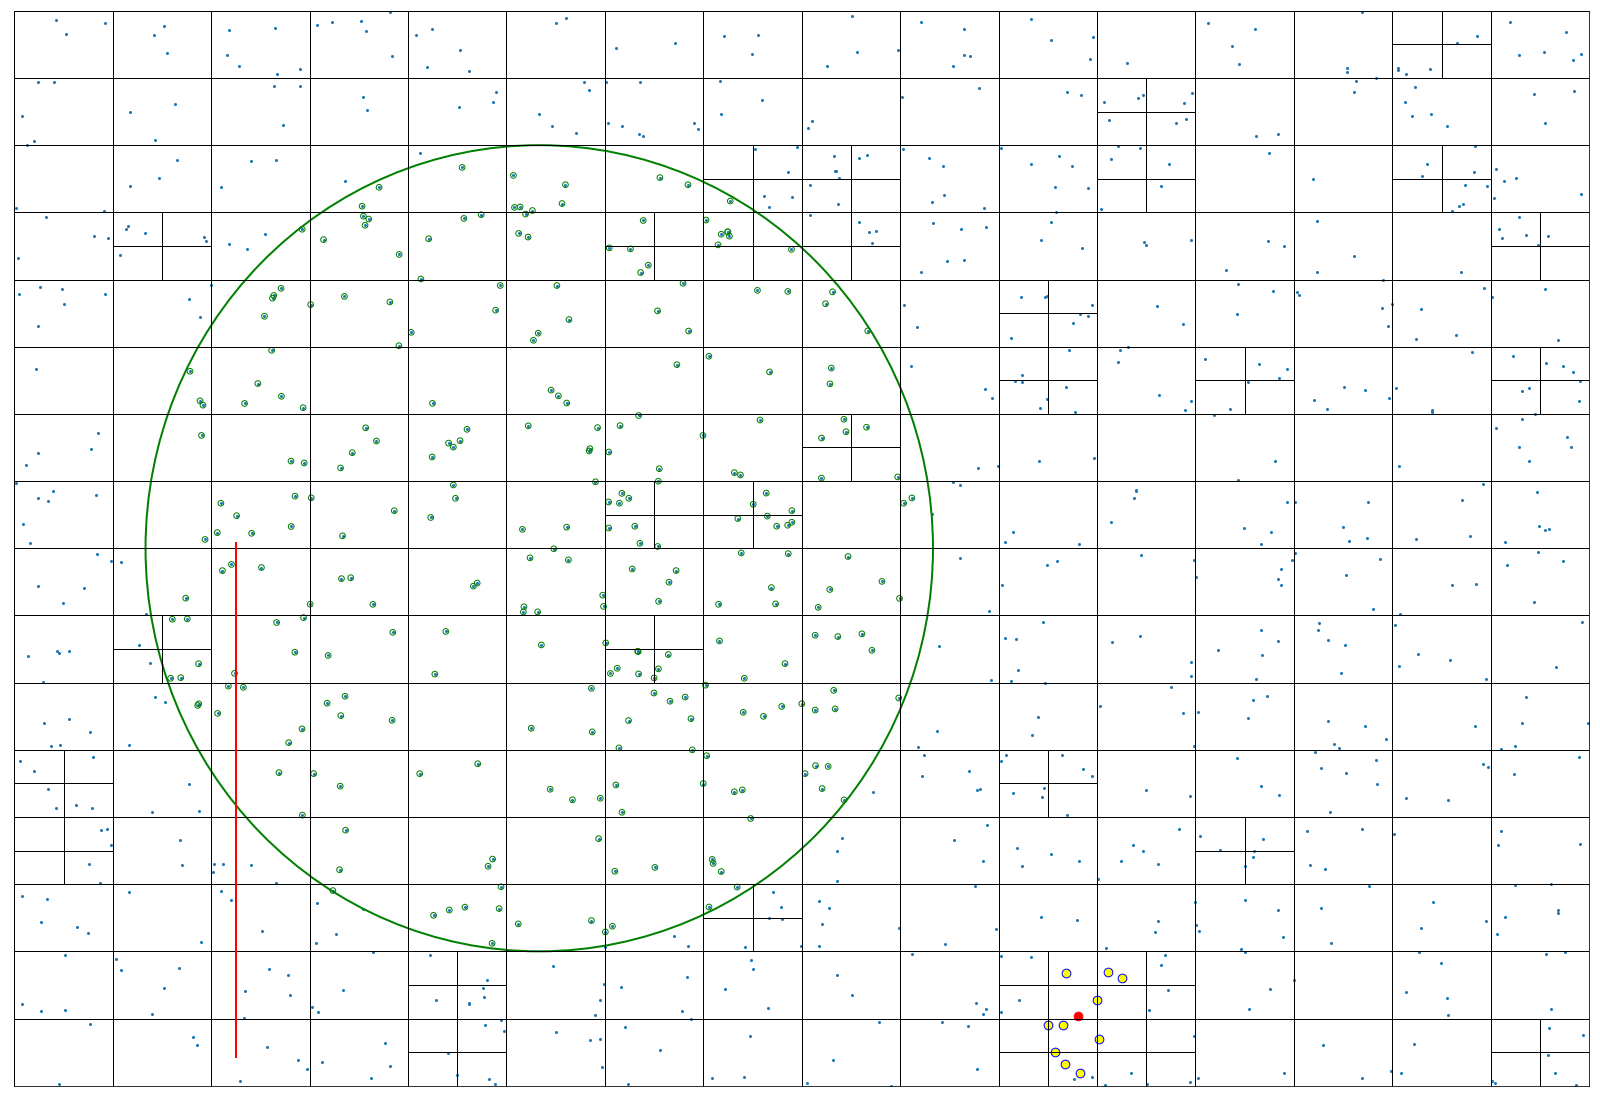
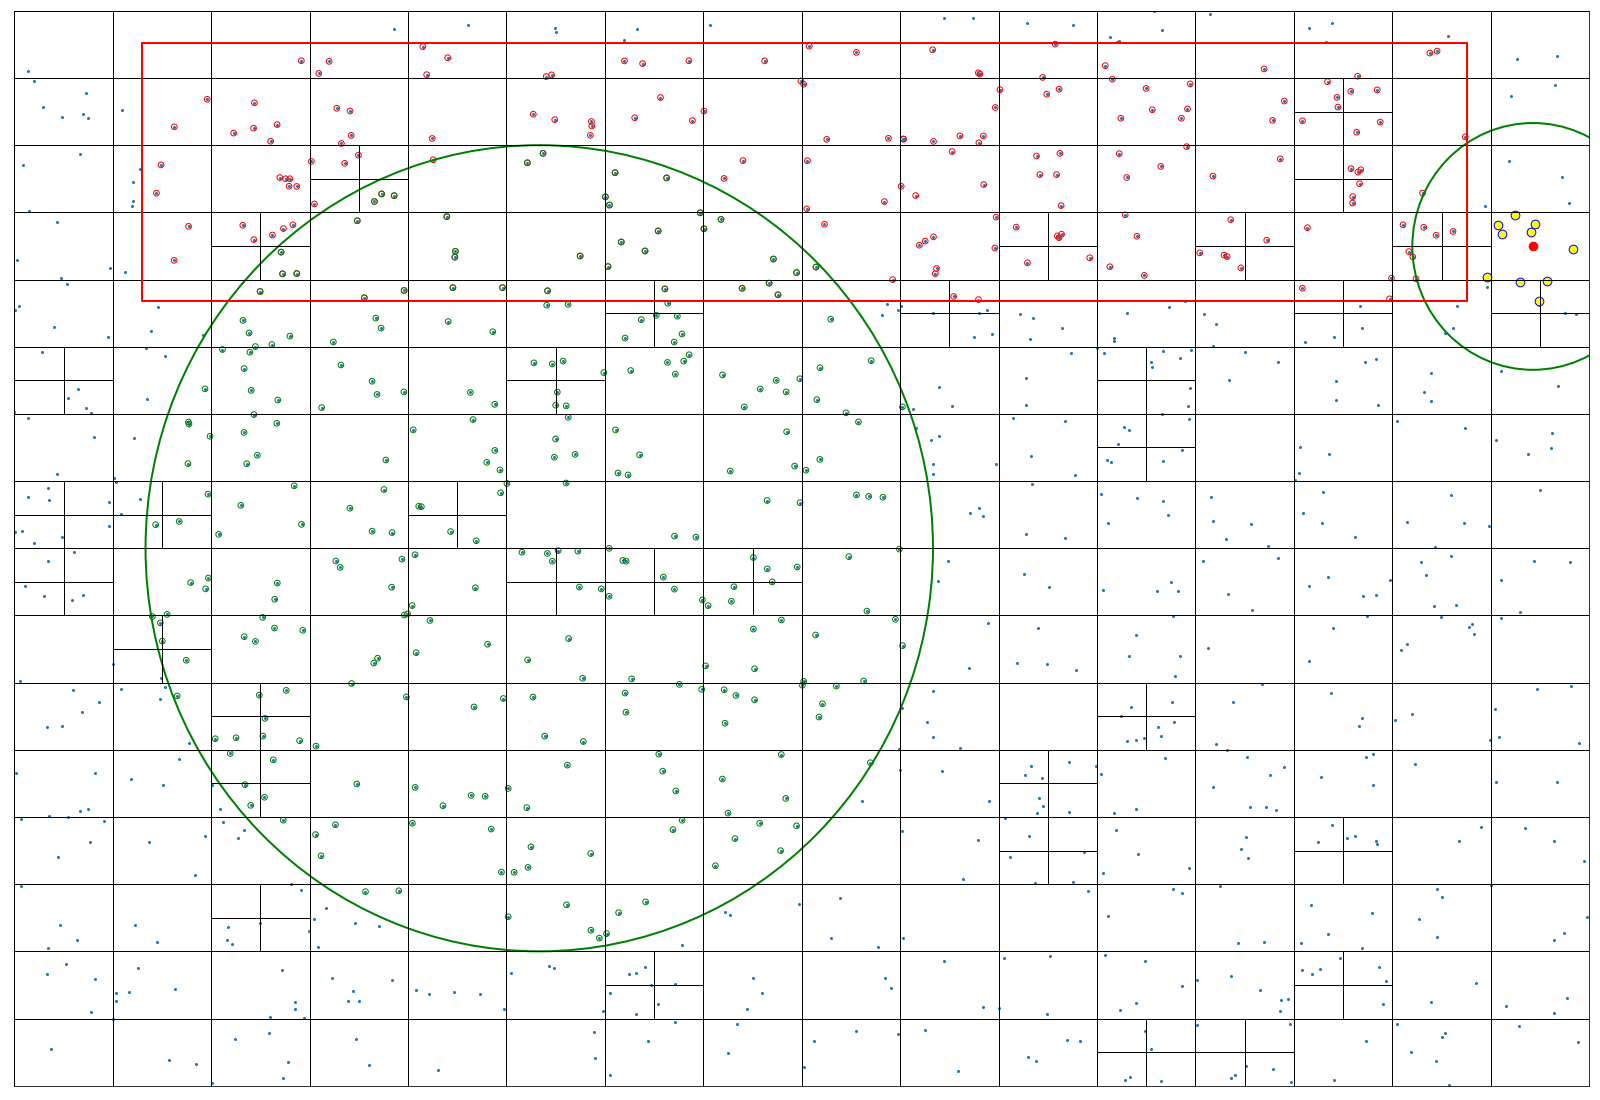
Rename to kNearest function. (fix) Circle center point

diff --git a/Trees/quadtree-implement-and-visualize/quadtree.py b/Trees/quadtree-implement-and-visualize/quadtree.py
@@ -86,7 +86,7 @@ class Rectangle:
         x2, y2 = self.east, self.south
         # ax.plot(300, 200,
         #         c=c, lw=lw, **kwargs)
-        circle = Circle((self.center.y, self.center.y), radius, edgecolor=c,
+        circle = Circle((self.center.x, self.center.y), radius, edgecolor=c,
                         fill=False, linewidth=lw)
 
         ax.add_patch(circle)
@@ -183,10 +183,7 @@ class QuadTree:
 
         return []
 
-    def kNearest(self, searchPoint: Point, maxCount, maxDistance, furthestDistance, foundSoFar):
-        found = []
-
-    def sortChildrenByDistance(self, searchPoint: Point, maxCount=1, maxDistance=m.inf, furthestDistance=0, foundSoFar=0):
+    def kNearest(self, searchPoint: Point, maxCount=1, maxDistance=m.inf, furthestDistance=0, foundSoFar=0):
         found_points = []
 
         tree_children = self.children()
@@ -204,7 +201,7 @@ class QuadTree:
                 return
 
             if foundSoFar < maxCount or distance < furthestDistance:
-                result = child.sortChildrenByDistance(
+                result = child.kNearest(
                     searchPoint, maxCount,  maxDistance, furthestDistance, foundSoFar
                 )
                 child_points = result["found_points"]
